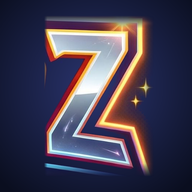
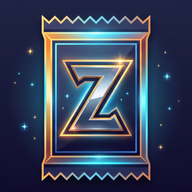
Usa a nova arte de ícone do Boosterz no app, atalhos e abertura

diff --git a/index.html b/index.html
@@ -21,15 +21,16 @@
 <link rel="preconnect" href="https://fonts.googleapis.com">
 <link rel="preconnect" href="https://fonts.gstatic.com" crossorigin>
 <link rel="stylesheet" href="https://fonts.googleapis.com/css2?family=Bricolage+Grotesque:opsz,wght@12..96,500;12..96,700;12..96,800&family=IBM+Plex+Mono:wght@500;600&family=Instrument+Sans:wght@400;500;600&display=swap">
-<link rel="stylesheet" href="styles.css?v=202611032333">
+<link rel="stylesheet" href="styles.css?v=202611032335">
 <style>
 /* Estilo mínimo da abertura, embutido: ela fica certa mesmo se styles.css ainda estiver carregando. */
 #splash { position: fixed; inset: 0; z-index: 100; display: grid; place-content: center; justify-items: center; gap: 14px; background: #080c1b; }
-#splash img { width: min(84vw, 460px); height: auto; }
+#splash .logo { width: min(84vw, 460px); height: auto; }
+#splash .app-icon { width: 96px; height: 96px; border-radius: 22px; box-shadow: 0 0 0 2px rgb(63 216 255 / .5), 0 0 30px rgb(63 216 255 / .35); }
 </style>
 </head>
 <body>
-<div id="splash" aria-hidden="true"><img class="logo" src="icons/logo.webp" alt="Boosterz TCG Tracker"></div>
+<div id="splash" aria-hidden="true"><img class="app-icon" src="icons/icon-192.png" alt=""><img class="logo" src="icons/logo.webp" alt="Boosterz TCG Tracker"></div>
 <script>setTimeout(function () { var s = document.getElementById('splash'); if (s) s.remove(); }, 3000);</script>
 <header id="deskbar">
   <form id="deskSearch" role="search"><svg viewBox="0 0 24 24" aria-hidden="true"><circle cx="11" cy="11" r="7"/><path d="m20 20-4-4"/></svg>
@@ -70,11 +71,11 @@
 <input id="importInput" type="file" accept="application/json,.json" hidden>
 
 <script src="https://cdn.jsdelivr.net/npm/tesseract.js@5.1.1/dist/tesseract.min.js" defer></script>
-<script src="firebase-config.js?v=202611032333" defer></script>
-<script src="app.js?v=202611032333" defer></script>
-<script src="views.js?v=202611032333" defer></script>
-<script src="desk.js?v=202611032333" defer></script>
-<script src="sync.js?v=202611032333" defer></script>
-<script src="social.js?v=202611032333" defer></script>
+<script src="firebase-config.js?v=202611032335" defer></script>
+<script src="app.js?v=202611032335" defer></script>
+<script src="views.js?v=202611032335" defer></script>
+<script src="desk.js?v=202611032335" defer></script>
+<script src="sync.js?v=202611032335" defer></script>
+<script src="social.js?v=202611032335" defer></script>
 </body>
 </html>

diff --git a/sw.js b/sw.js
@@ -1,5 +1,5 @@
-const SHELL = 'boosterz-shell-202611032333', RUNTIME = 'fichario-runtime-1';
-const FILES = ['./', 'index.html', 'styles.css', 'app.js', 'views.js', 'desk.js', 'sync.js', 'social.js', 'firebase-config.js', 'manifest.webmanifest', 'icons/icon-180.png', 'icons/logo.webp', 'icons/favicon-64.png', 'data/index.json', 'data/hashes.bin', 'data/set-logos.json', 'data/catalog.json'];
+const SHELL = 'boosterz-shell-202611032335', RUNTIME = 'fichario-runtime-1';
+const FILES = ['./', 'index.html', 'styles.css', 'app.js', 'views.js', 'desk.js', 'sync.js', 'social.js', 'firebase-config.js', 'manifest.webmanifest', 'icons/icon-180.png', 'icons/icon-192.png', 'icons/logo.webp', 'icons/favicon-64.png', 'data/index.json', 'data/hashes.bin', 'data/set-logos.json', 'data/catalog.json'];
 
 self.addEventListener('install', e => {
   e.waitUntil(caches.open(SHELL).then(c => c.addAll(FILES)).then(() => self.skipWaiting()));

diff --git a/styles.css b/styles.css
@@ -281,7 +281,8 @@ details summary { padding: 8px 0; color: var(--muted); font-size: 14px; font-wei
 
 /* Abertura: o símbolo aparece enquanto o app monta a primeira tela */
 #splash { position: fixed; inset: 0; z-index: 100; display: grid; place-content: center; justify-items: center; gap: 14px; background: radial-gradient(70% 50% at 50% 42%, #1c2c80, var(--bg)); transition: opacity .35s ease, visibility .35s; }
-#splash img { width: min(84vw, 460px); height: auto; }
+#splash .logo { width: min(84vw, 460px); height: auto; }
+#splash .app-icon { width: 96px; height: 96px; border-radius: 22px; box-shadow: 0 0 0 2px rgb(63 216 255 / .5), 0 0 30px rgb(63 216 255 / .35); }
 #splash.out { opacity: 0; visibility: hidden; }
 @media (prefers-reduced-motion: no-preference) { #splash img { animation: pop .5s cubic-bezier(.2, .9, .3, 1.3); } @keyframes pop { from { transform: scale(.7) rotate(-12deg); opacity: 0; } } }
 
